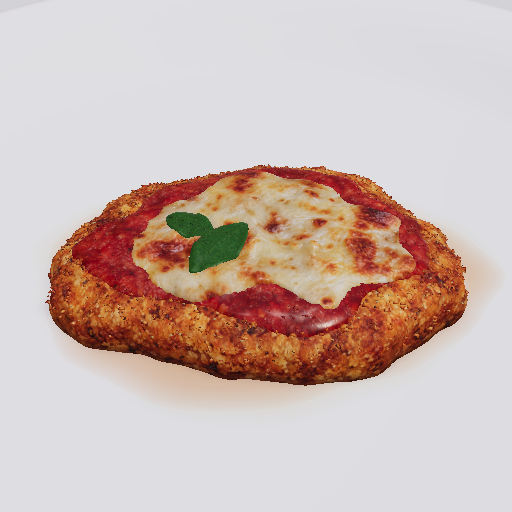
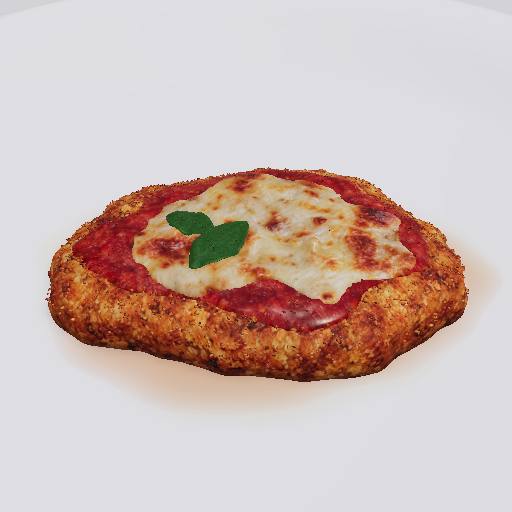
Preserve rearranged chicken stacks when restoring saved meals

Changed region(s): [[0.0938, 0.3125, 0.9375, 0.75]]

diff --git a/web/src/chicken.js b/web/src/chicken.js
@@ -17,7 +17,7 @@ export function prepareChicken(root){
  * an artistic approximation, not measured food elasticity or a fluid solver.
  * Only an active serving updates vertex buffers; resting portions are static. */
 export class ChickenMotion {
-  constructor(portion,plate,grid,animate){
+  constructor(portion,plate,grid,animate,restored=false){
     this.p=portion;this.mesh=portion.root.getChildMeshes().find(m=>m.getTotalVertices());
     this.rest=new Float32Array(this.mesh.getVerticesData(B.VertexBuffer.PositionKind));
     this.positions=new Float32Array(this.rest);
@@ -25,16 +25,19 @@ export class ChickenMotion {
     this.normals=new Float32Array(this.restNormals);this.indices=this.mesh.getIndices();
     this.mesh.setVerticesData(B.VertexBuffer.PositionKind,this.positions,true);
     this.mesh.setVerticesData(B.VertexBuffer.NormalKind,this.normals,true);
-    this.film=new JuiceFilm(plate,portion);this.place(grid);
+    this.film=new JuiceFilm(plate,portion);this.place(grid,restored);
     if(animate)this.start();
   }
-  place(grid){
+  place(grid,preserveHeight=false){
     this.support=new Float32Array(grid);
     const r=this.p.root.rotation;
     this.rotation=B.Matrix.RotationYawPitchRoll(r.y,r.x,r.z).m;
     // Check actual resting vertices as well as the game's 3 mm triangle grid.
     // This preserves contact with the rim and with previously served foods.
-    this.p.y=Math.max(this.p.y,this.requiredHeight(this.rest));this.finish();
+    // Saved order is chronological, not vertical: an earlier portion may have
+    // been dragged on top of a later one. Restore their positions exactly.
+    if(!preserveHeight)this.p.y=Math.max(this.p.y,this.requiredHeight(this.rest));
+    this.finish();
   }
   requiredHeight(positions){
     const m=this.rotation,p=this.p;let height=0;

diff --git a/web/src/app.js b/web/src/app.js
@@ -98,7 +98,7 @@ class BuffetGame {
     const angle=record?.rotation??((this.portions.length*137.5)%360)*Math.PI/180,tilt=record?.tilt??this.settle(root);
     const rotation=new B.Vector3(tilt.x,angle,tilt.z),shape=this.shapeFor(food.id,root,rotation);root.rotation=rotation;
     const pose=record?.position||this.placement.fit(shape),p={portionId:record?.portionId||crypto.randomUUID().replaceAll('-',''),foodId:food.id,addedAt:record?.addedAt??this.research.elapsed,root,angle,tilt,shape,...pose};
-    root.position.copyFromFloats(p.x,p.y,p.z);for(const mesh of root.getChildMeshes())mesh.metadata={portion:p.portionId};this.portions.push(p);if(food.id==='chicken_parmesan')p.motion=new ChickenMotion(p,this.plate,this.placement.grid,animate);this.placement.occupy(p);
+    root.position.copyFromFloats(p.x,p.y,p.z);for(const mesh of root.getChildMeshes())mesh.metadata={portion:p.portionId};this.portions.push(p);if(food.id==='chicken_parmesan')p.motion=new ChickenMotion(p,this.plate,this.placement.grid,animate,!!record);this.placement.occupy(p);
     if(animate&&!p.motion){p.animating=true;const from=V(0,.075,.4),to=root.position.clone(),start=performance.now();const frame=()=>{if(root.isDisposed()||!p.animating)return;const t=Math.min(1,(performance.now()-start)/430),s=t*t*(3-2*t);root.position=B.Vector3.Lerp(from,to,s);root.position.y+=Math.sin(t*Math.PI)*.045;if(t<1)requestAnimationFrame(frame);else p.animating=false;};frame();}
     return p;
   }

diff --git a/tools/test_chicken.py b/tools/test_chicken.py
@@ -75,6 +75,20 @@ def check(base):
         assert snapshot(page)['session']['portions']==before
         assert scene_counts(page)['films']==2
         page.locator('#undo').click();assert scene_counts(page)==empty
+        # Chronological saved order can differ from vertical order after a drag.
+        for _ in range(2):page.locator('#add').click()
+        page.wait_for_function('buffet.snapshot().portions.every(p=>!p.motion.active)',timeout=20000)
+        page.locator('#view').click();ready(page)
+        first=page.evaluate('buffet.point("portion",0)');second=page.evaluate('buffet.point("portion",1)')
+        page.mouse.move(first['x'],first['y']);page.mouse.down()
+        page.mouse.move(second['x'],second['y'],steps=12);page.mouse.up()
+        stacked=snapshot(page)['portions']
+        assert stacked[0]['y']>stacked[1]['y']+.01
+        saved(page);page.reload();ready(page)
+        restored=snapshot(page)['portions']
+        assert [(p['x'],p['y'],p['z']) for p in restored]==[(p['x'],p['y'],p['z']) for p in stacked]
+        page.get_by_role('button',name='Continue your plate').click();ready(page)
+        page.locator('#undo').click();page.locator('#undo').click()
         # A photograph requested during serving must capture a settled portion.
         page.locator('#add').click();page.locator('#photo').click()
         page.get_by_role('heading',name='Your plate photograph').wait_for(timeout=60000)
@@ -96,7 +110,7 @@ def check(base):
         assert not errors,errors
         report={'testedAt':datetime.now(timezone.utc).isoformat(),'frames':len(frames),
                 'minimumVertexY':min(f['low'] for f in frames),'maxBendMeters':max(abs(f['bend']) for f in frames),
-                'contactBeforePooling':True,'independentGeometry':True,'drag':True,'reload':True,
+                'contactBeforePooling':True,'independentGeometry':True,'drag':True,'reload':True,'reorderedStackRestore':True,
                 'photographSettlesMotion':True,'capacity':40,'cleanup':True,'fpsAtCapacity':full['fps'],'errors':errors}
         (OUT/'report.json').write_text(json.dumps(report,indent=2))
         browser.close()
